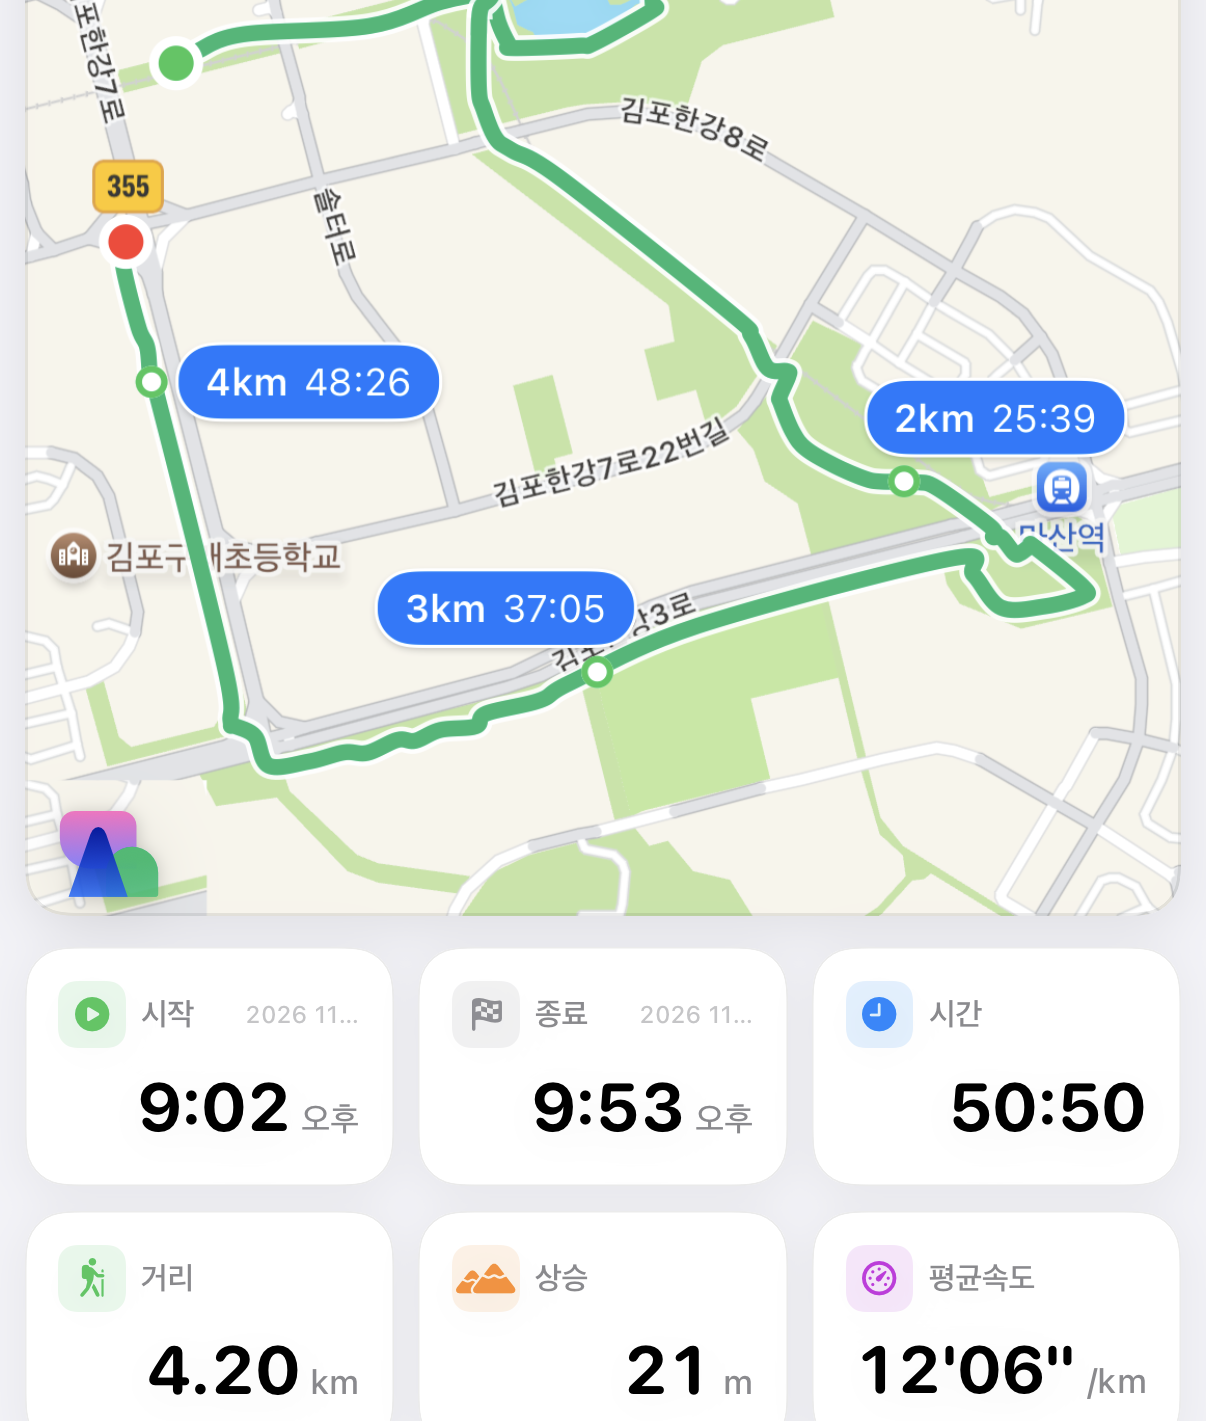
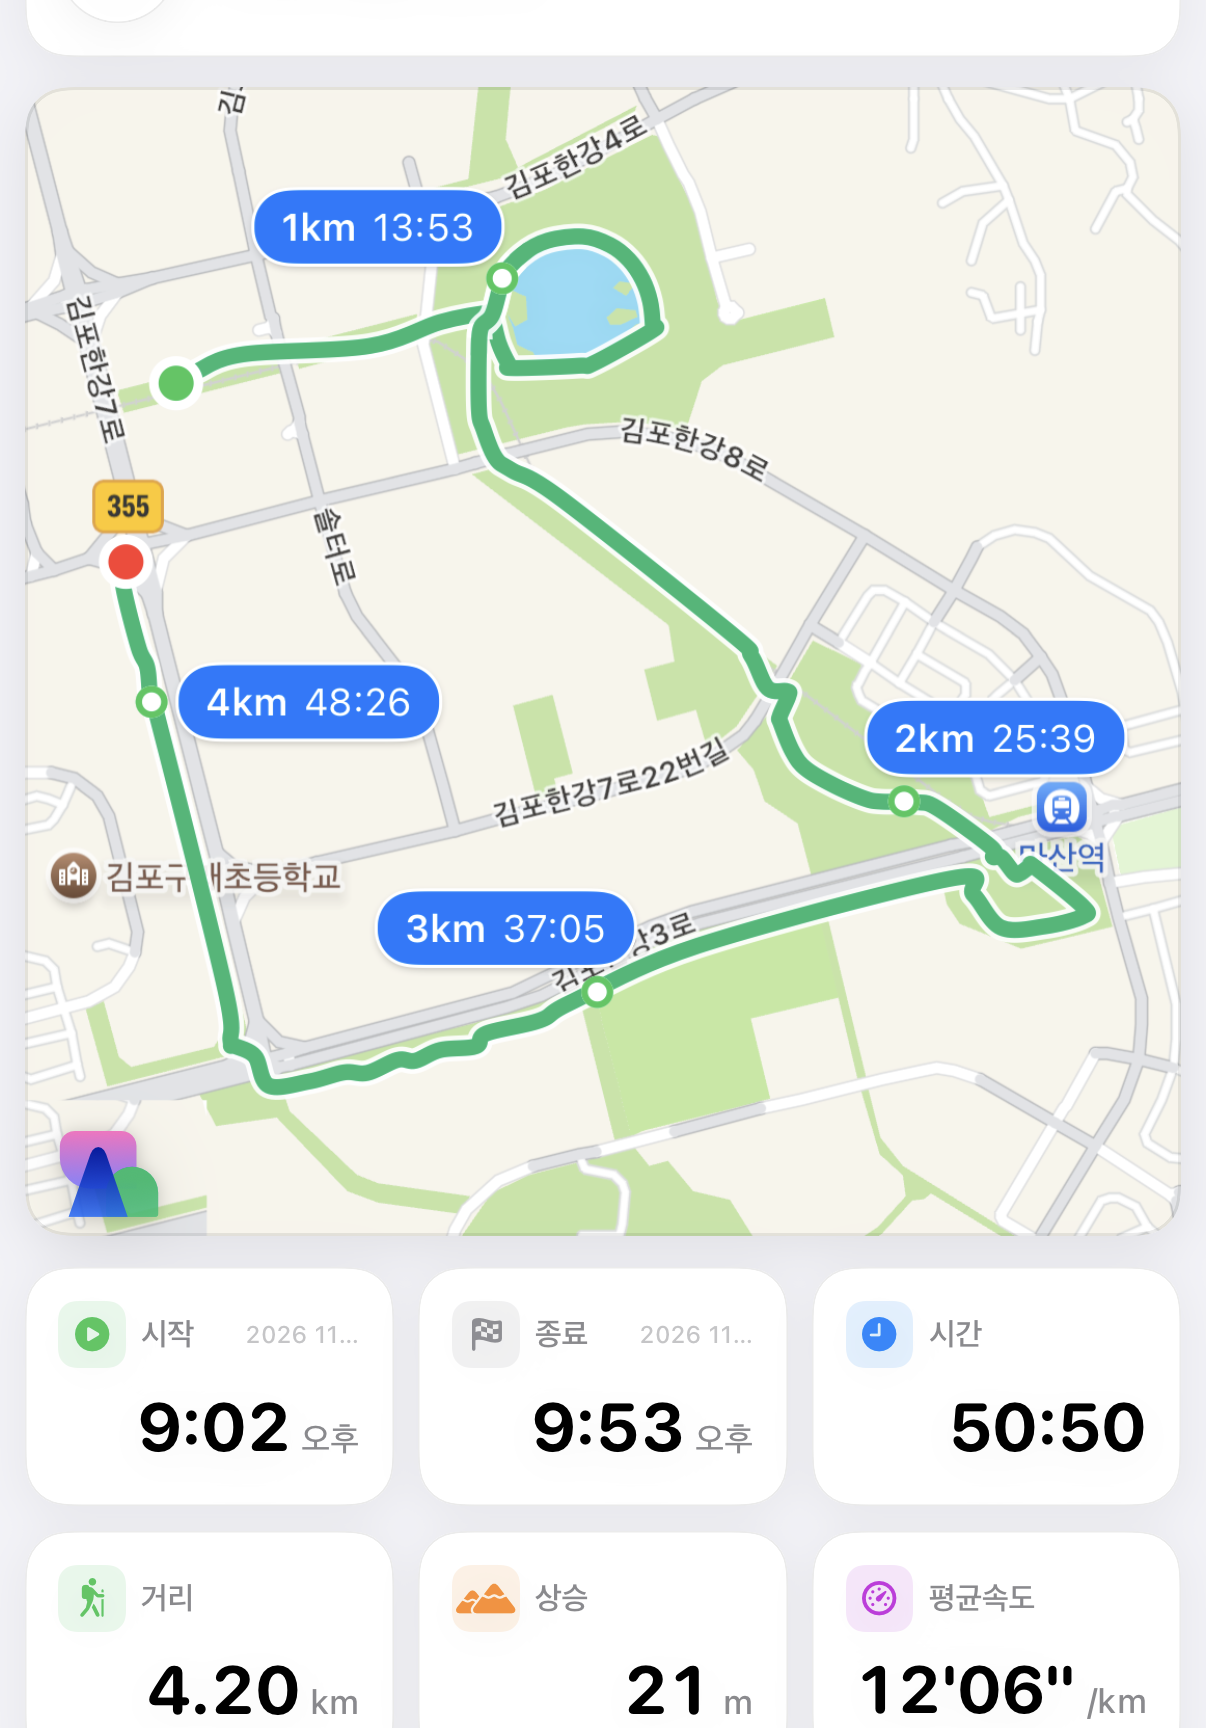
fix(ios): v18f preview crop — 314:450 tip+1km balance
DC bias +424 (y0=250) clears green tip and keeps 1km below name pill;
SG/SC +148 keep logo omit_fill. Aspect 314:450 preserves primary 2 rows.
Preview only; save locked.

diff --git a/sansan/ImageSaveStylePager.swift b/sansan/ImageSaveStylePager.swift
@@ -4,10 +4,10 @@
 //
 //  Settings: horizontal pages + bottom pill-spring dots (light-mode tokens).
 //  Swipe/dots change VIEWED page only — selection is preference storage.
-//  v18 JW: shared crop SoT 314∶370. SC/SG bias +302 + logo omit_fill in
-//  preview thumbs (logo neither edge-clipped nor under name pill; title
-//  clear under pill). DC bias +258 clears endpoint halo; primary rows full.
-//  Page-dot gap SoT: dotsTopGap 22pt. Morph one-line chrome unchanged.
+//  v18f JW: shared crop SoT 314∶450. SC/SG bias +148 + logo omit_fill
+//  (logo clear of pill/edge; title clear). DC bias +424: tip clear under
+//  rounded top AND 1km blue below name pill; primary rows full.
+//  Page-dot gap SoT: dotsTopGap 22pt. Morph unchanged.
 //  NO card shadow/bg. Dots BELOW preview. Title TL + Morph TR; thumbs
 //  pre-framed per crop table (Android copies same numbers). 「선택 완료」
 //  saved-only; footer follows VIEWED. Preview thumbs only — save untouched.
@@ -32,10 +32,10 @@ private enum ImageSaveStylePagerTokens {
     static let dotSize: CGFloat = 8
     static let pillWidth: CGFloat = 20
     static let gap: CGFloat = 14
-    /// Settings preview framing — shared crop SoT with Android (v18).
-    /// Aspect **314∶370**; at list width ≈ 370pt → card height ≈ **436pt**.
+    /// Settings preview framing — shared crop SoT with Android (v18f).
+    /// Aspect **314∶450**; at list width ≈ 370pt → card height ≈ **530pt**.
     static let cardAspectWidth: CGFloat = 314
-    static let cardAspectHeight: CGFloat = 370
+    static let cardAspectHeight: CGFloat = 450
     static let pageCorner: CGFloat = 24
     /// Overlaid on preview (Pagination Dots slide caption: 16 / 14).
     static let titleSize: CGFloat = 17
@@ -235,7 +235,7 @@ struct ImageSaveStylePager: View {
     @ViewBuilder
     private func pageImage(for style: HikingRecordImageSaveStyle) -> some View {
         if let image = ImageSaveStylePreviewImages.image(for: style) {
-            // Resources are pre-framed 314∶370 per shared crop SoT (see v18 CROP_SOT).
+            // Resources are pre-framed 314∶450 per shared crop SoT (see v18 CROP_SOT).
             // Fit (not Fill) so matching-aspect thumbs are not re-cropped at runtime.
             Image(uiImage: image)
                 .resizable()
